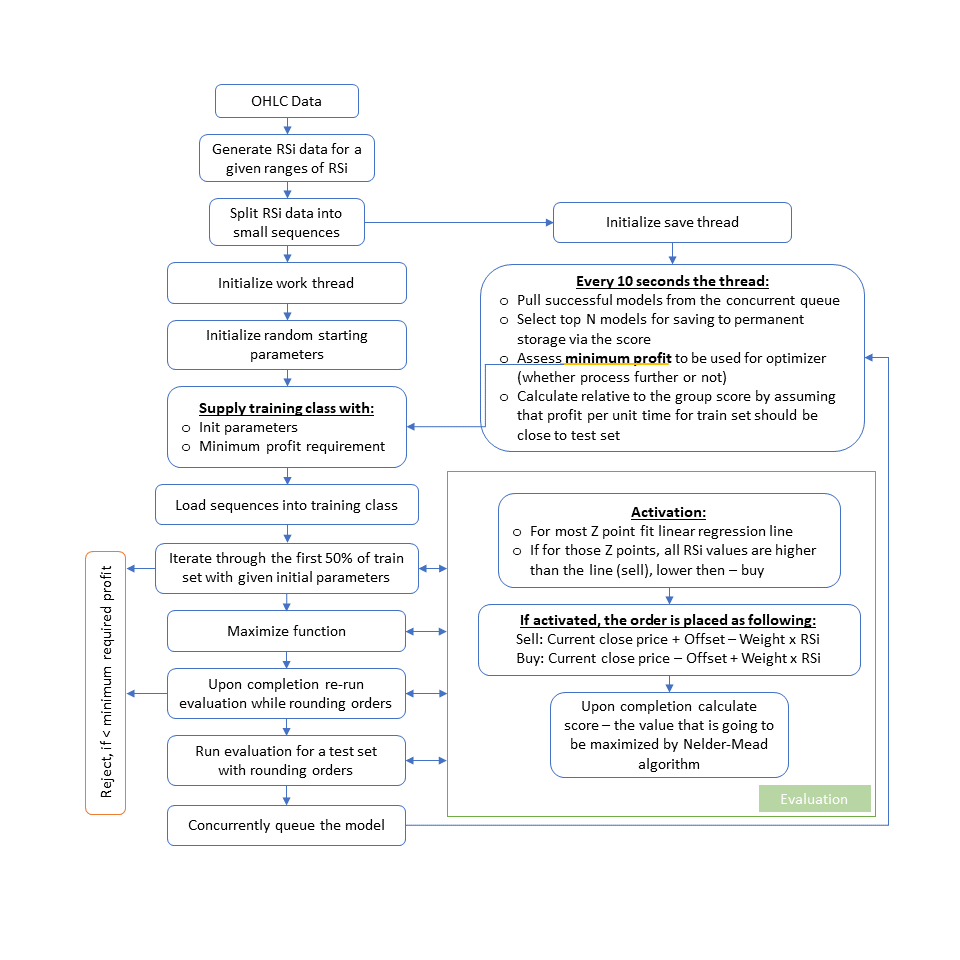
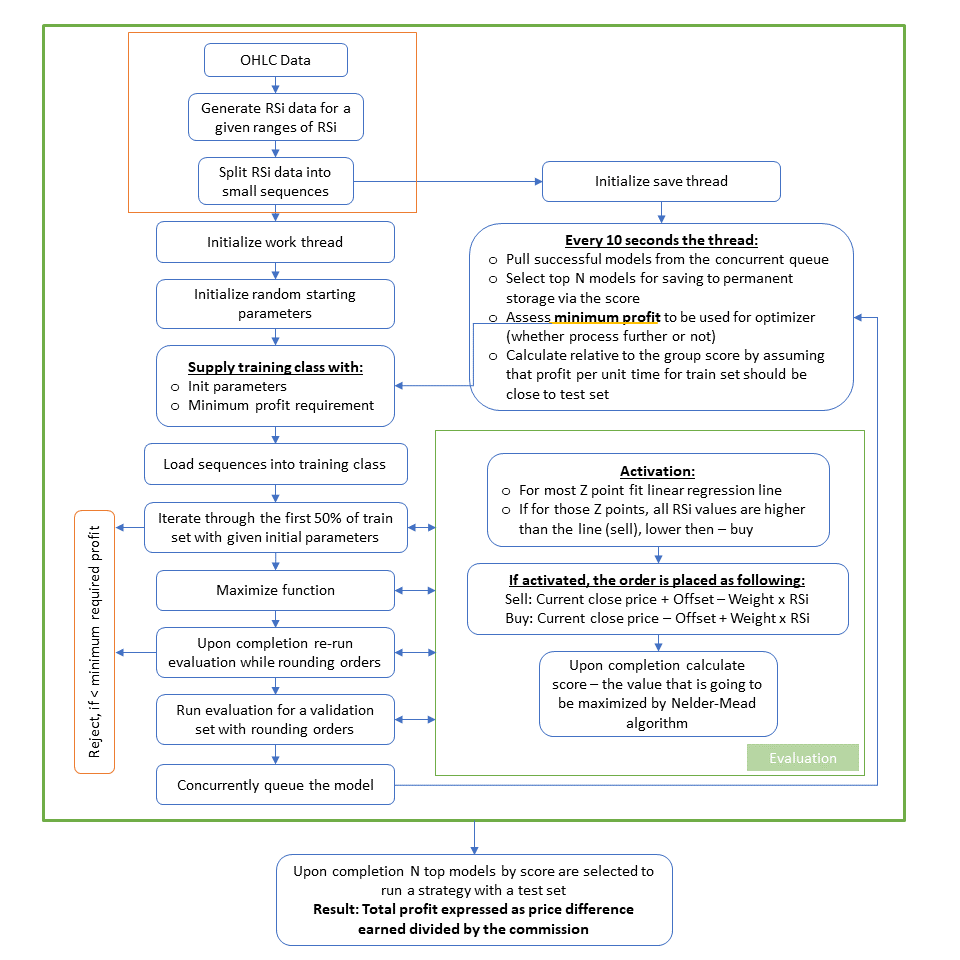
RSi indicator changed to unsmoothed, optimization is corrected. Flow diagram updated

diff --git a/simple-rsi-trader/Classes/OptimizerClass.cs b/simple-rsi-trader/Classes/OptimizerClass.cs
@@ -119,40 +119,6 @@ namespace simple_rsi_trader.Classes
             sequence.CurrentClosePrice + weights[(int)OptimizingParameters.Offset0] - weights[(int)OptimizingParameters.Offset1] * sequence.RsiSequence[^1]:
             sequence.CurrentClosePrice - weights[(int)OptimizingParameters.Offset0] + weights[(int)OptimizingParameters.Offset1] * (100 - sequence.RsiSequence[^1]);
 
-        /*private (double profit, ActionOutcome outcome) GetProfitFromOrder(OrderModel prediction, double stopLoss, double takeProfit) {
-            if (_parameter.Operation == OperationType.Buy) {
-                if (prediction.Order > prediction.Low + _commission / 2d && prediction.Order < prediction.LowestPrice - _commission / 2d + stopLoss) {
-                    
-                    double distance = prediction.Close - prediction.Order;
-
-                    double profit = distance < takeProfit ? distance - _commission / 2d : takeProfit - _commission / 2d;
-
-                    if (profit > 0)
-                        return (profit, ActionOutcome.Success);
-                    else
-                        return (profit, ActionOutcome.Failed);
-                }
-                else if (prediction.Order >= prediction.Low + _commission / 2d + stopLoss)
-                    return ((-1) * (stopLoss + _commission / 2d), ActionOutcome.Failed);
-            }
-            else {
-                if (prediction.Order < prediction.High - _commission / 2d && prediction.Order > prediction.HighestPrice + _commission / 2d - stopLoss) {
-                    
-                    double distance = prediction.Order - prediction.Close;
-
-                    double profit = distance < takeProfit ? distance - _commission / 2d : takeProfit - _commission / 2d;
-
-                    if (profit > 0)
-                        return (profit, ActionOutcome.Success);
-                    else
-                        return (profit, ActionOutcome.Failed);
-                }
-                else if (prediction.Order <= prediction.High + _commission / 2d - stopLoss)
-                    return ((-1) * (stopLoss + _commission / 2d), ActionOutcome.Failed);
-            }
-            return (0, ActionOutcome.NoAction);
-        }*/
-
         public void LoadSequence(SequenceClass[] sequences) => _sequences = sequences;
 
         public void Optimize(double minTrainingScore) {
@@ -163,7 +129,8 @@ namespace simple_rsi_trader.Classes
             _executionType = ExecutionType.Train;
             _parameter.ToOptimizableArray();
 
-            if (Evaluate(_parameter.OptimizableArray) > minTrainingScore) {
+            double preTrainScore = Evaluate(_parameter.OptimizableArray);
+            if (preTrainScore > minTrainingScore) {
                 _size = _sequences.Length;
                 function = Evaluate;
 

diff --git a/CommonLib/Indicators/RsiClass.cs b/CommonLib/Indicators/RsiClass.cs
@@ -8,54 +8,27 @@ namespace CommonLib.Indicators
         private readonly int _period;
         public RsiClass(int period) => _period = period;
 
-        public DataModel[] GetRSi(DataModel[] model, int columnSignalIndex, int columnDestinationIndex)
-        {
+        public DataModel[] GetRSiOriginal(DataModel[] model, int columnSignalIndex, int columnDestinationIndex) {
             double[] derivative = new double[model.Length - 1];
 
             for (int i = 1; i < model.Length; i++)
                 derivative[i - 1] = model[i].Data[columnSignalIndex] - model[i - 1].Data[columnSignalIndex];
 
-            for (int i = derivative.Length; i > _period + 1; i--)
-            {
+            for (int i = derivative.Length; i > _period + 1; i--) {
                 double[] sequence = derivative[(i - _period)..i];
 
-                double previousGain = 0;
-                double previousLoss = 0;
-                double currentGain = 0;
-                double currentLoss = 0;
+                double gain = 0, loss = 0;
 
-                int previousGainCount = 0;
-                int previousLossCount = 0;
+                for (int j = 0; j < sequence.Length; j++)
+                    if (sequence[j] > 0)
+                        gain += sequence[j];
+                    else
+                        loss += (-1) * sequence[j];
 
-                for (int j = 0; j < sequence.Length - 1; j++)
-                    if (sequence[j] > 0) // gain
-                    {
-                        previousGain += sequence[j];
-                        previousGainCount++;
-                    }
-                    else // loss
-                    {
-                        previousLoss += Math.Abs(sequence[j]);
-                        previousLossCount++;
-                    }
+                gain /= _period;
+                loss /= _period;
 
-                if (previousGainCount != 0)
-                    previousGain = previousGain / previousGainCount;
-
-                if (previousLossCount != 0)
-                    previousLoss = previousLoss / previousLossCount;
-
-                if (sequence[sequence.Length - 1] > 0)
-                    currentGain = sequence[sequence.Length - 1];
-                else
-                    currentLoss = Math.Abs(sequence[sequence.Length - 1]);
-
-                double rsi = 100;
-
-                if (previousLoss + currentLoss != 0)
-                    rsi = 100 - 100 / (1 + ((_period - 1) * previousGain + currentGain) / ((_period - 1) * previousLoss + currentLoss));
-
-                model[i].Data[columnDestinationIndex] = rsi;
+                model[i].Data[columnDestinationIndex] = 100 - (100 / (1 + gain / loss));
             }
 
             return model;

diff --git a/simple-rsi-trader/Program.cs b/simple-rsi-trader/Program.cs
@@ -18,16 +18,16 @@ namespace simple_rsi_trader
 
         static readonly int _horizon = 1;
         static readonly int _testSize = 50;
-        static readonly int _validationSize = 50;
-        static readonly int _randomInitCount = 100000;
-        static readonly int _useForTest = 3;
+        static readonly int _validationSize = 100;
+        static readonly int _randomInitCount = 150000;
+        static readonly int _useForTest = 5;
 
         #endregion
 
         #region Parameters range setup
 
         static readonly IntRangeStruct _lastRsiSequence = new(1, 5);
-        static readonly IntRangeStruct _rsiRange = new(7, 21);
+        static readonly IntRangeStruct _rsiRange = new(7, 40);
 
         static readonly DoubleRangeStruct _rsiBuyLimits = new(10, 60);
         static readonly DoubleRangeStruct _rsiSellLimits = new(40, 90);
@@ -40,9 +40,10 @@ namespace simple_rsi_trader
         static readonly DateTime _restrictByDate = new(2000, 01, 01);
         static readonly List<SignalModel> _dailyCharts = new()
         {
-            new SignalModel(name: "XAUUSD1440.csv", commission: 0.3, stopLossRange: new(10, 50), takeProfitRange: new(40, 240)),
-            new SignalModel(name: "USDJPY1440.csv", commission: 0.007, stopLossRange: new(10, 50), takeProfitRange: new(40, 240)),
-            new SignalModel(name: "EURUSD1440.csv", commission: 0.00007, stopLossRange: new(10, 50), takeProfitRange: new(40, 240))
+            new SignalModel(name: "XAUUSD1440.csv", commission: 0.3, stopLossRange: new(10, 50), takeProfitRange: new(40, 200)),
+            new SignalModel(name: "USDJPY1440.csv", commission: 0.007, stopLossRange: new(10, 40), takeProfitRange: new(40, 200)),
+            new SignalModel(name: "EURUSD1440.csv", commission: 0.00007, stopLossRange: new(10, 100), takeProfitRange: new(40, 200)),
+            new SignalModel(name: "NATGAS1440.csv", commission: 0.003, stopLossRange: new(10, 70), takeProfitRange: new(40, 400))
         };
 
         #endregion

diff --git a/simple-rsi-trader/Classes/OptimizerInitClass.cs b/simple-rsi-trader/Classes/OptimizerInitClass.cs
@@ -26,7 +26,7 @@ namespace simple_rsi_trader.Classes
             { OperationType.Sell, 0}
         };
 
-        private readonly DoubleRangeStruct _scoreScalingTo = new(min: 0.25, max: 1);
+        private readonly DoubleRangeStruct _scoreScalingTo = new(min: 0.5, max: 1);
 
         private readonly int _saveTop;
 
@@ -130,7 +130,7 @@ namespace simple_rsi_trader.Classes
                 strategy.LoadSequences(TestSet);
                 strategy.Test();
 
-                Console.WriteLine($"Total profit: {strategy.Profit}");
+                Console.WriteLine($"Total profit: {(strategy.Profit / _commission):N3}");
 
                 foreach (SavedModel topModel in top) {
                     Console.WriteLine($"Operation\t{topModel.Parameters.Operation}");
@@ -191,7 +191,7 @@ namespace simple_rsi_trader.Classes
                 RsiClass rsi = new(period: i);
                 DataModel[] data = _sourceData.Copy();
 
-                data = rsi.GetRSi(data, (int)DataColumn.Close, (int)DataColumn.Rsi);
+                data = rsi.GetRSiOriginal(data, (int)DataColumn.Close, (int)DataColumn.Rsi);
                 data = data
                     .Where(m => m.Date >= restrictByDate)
                     .OrderBy(m => m.Date)
@@ -269,7 +269,7 @@ namespace simple_rsi_trader.Classes
 
                         savedFiltered.AddRange(operationGroupList.OrderByDescending(m => m.TestedPerformance.Score).Take(_saveTop));
 
-                        _minTrainingProfitRequired[operationGroup.Key] = savedFiltered.Min(m => m.TrainedPerformance.Profit) * _profitReducer;
+                        _minTrainingProfitRequired[operationGroup.Key] = savedFiltered.Min(m => (m.TrainedPerformance.Profit + m.TestedPerformance.Profit) / 2) * _profitReducer;
                     });
 
                 if (savedFiltered.Count != 0) {

diff --git a/CommonLib/Models/PerformanceModel.cs b/CommonLib/Models/PerformanceModel.cs
@@ -1,7 +1,4 @@
-using CommonLib.Extensions;
-using CommonLib.Models.Range;
-
-namespace CommonLib.Models
+namespace CommonLib.Models
 {
     public class PerformanceModel
     {
@@ -17,17 +14,12 @@ namespace CommonLib.Models
         public double WinRate { get; set; } = 0;
         public int WinCount { get; set; } = 0;
 
-
-        private readonly DoubleRangeStruct _observed = new(min: 0, max: 1);
-        private readonly DoubleRangeStruct _scale = new(min: 0.1, max: 1.5);
-
         public void CalculateMetrics(double commission, int size) {
             WinRate = (double)WinCount / ActionCount;
             LossRate = (double)LossCount / ActionCount;
-            double lossRateScaled = LossRate.ScaleMinMax(_observed, _scale);
-            Score = Profit;// + Profit * WinRate / lossRateScaled;
 
             Profit /= (commission * size);
+            Score = Profit; // For now but should be changed in the future
         }
 
     }

diff --git a/README.md b/README.md
@@ -1,6 +1,6 @@
-## Simple RSi Trader
+# Simple RSi Trader
 
-### Hypothesis
+## Hypothesis
 
 A simple approach for a limit order inter-period trader for a derivative market. 
 The idea is to place a limit order at the start of the period, specifying stop loss and take profit. Once period is over -- close the order whether profit or loss. 
@@ -10,17 +10,19 @@ For `buy` operation a line is placed with contant being less or equal 50, and a 
 For `sell` operation a contant should be more or equal 50, and a positive slope.
 The expectations are that all the RSi points should be either above (for sell) or below the line (for buy). The maximum cut off should not exceed 90 for sell and 10 for buy operations respectively.
 
-### Flow chart
+## Flow chart
 
 ![Algorithm](Data/simple-rsi-trader-algo.png)
 
 
-### Results
+## Results
 
-The project is still in the development... 
+The project is still under the development... 
+
+Success measurement: sum of difference in price change divided by commission value for normalization.
 
 
-### Configuration & Optimization
+## Configuration & Optimization
 
 Constant configurations are specified in SignalModel class per financial instrument individually. 
 
